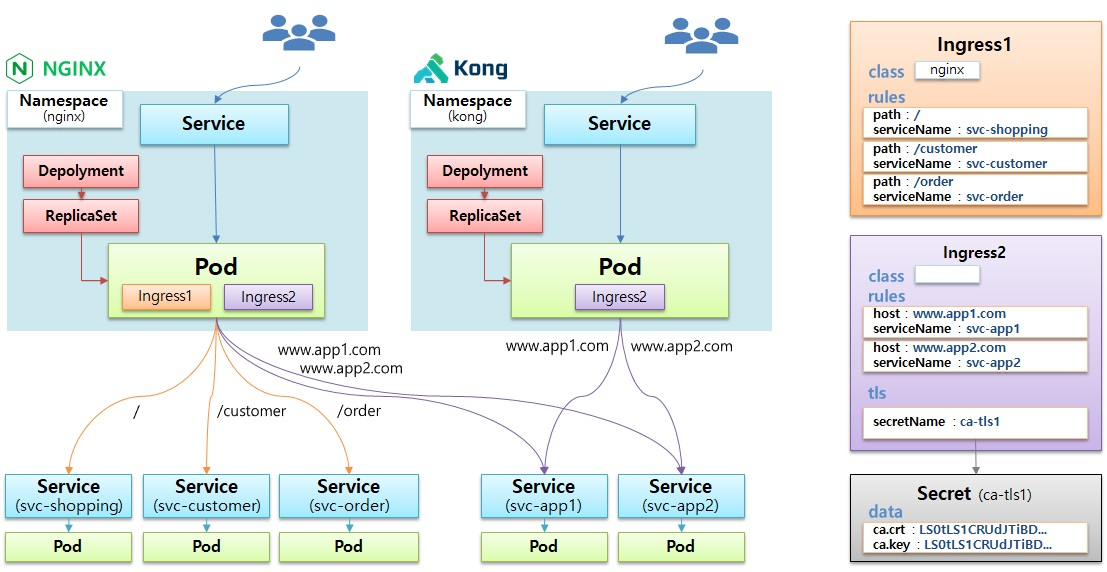
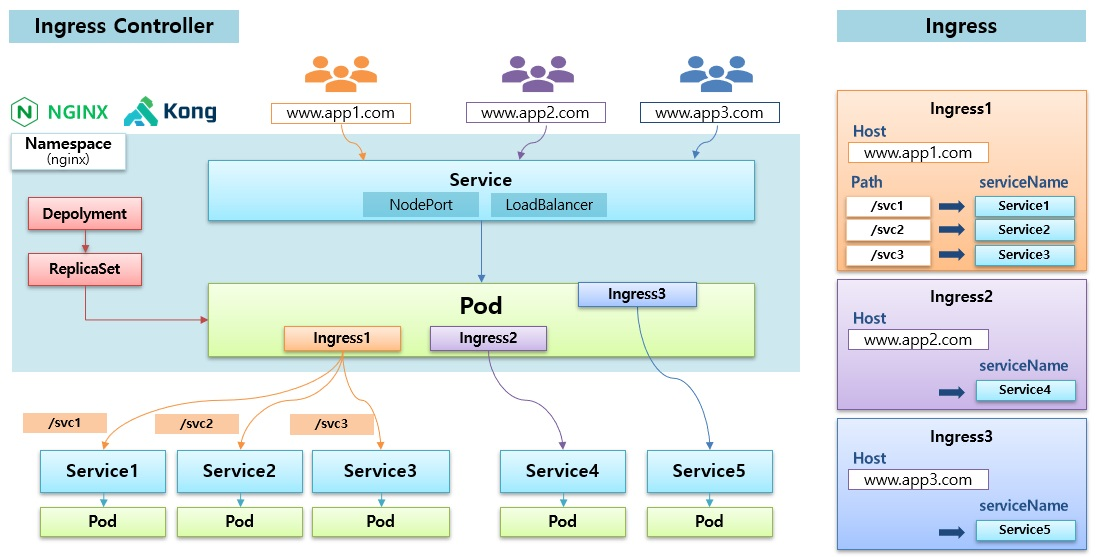
45

diff --git a/practice/intermediate/new-ingress/index.html b/practice/intermediate/new-ingress/index.html
@@ -33,7 +33,7 @@
 
 <meta itemprop="datePublished" content="2020-01-20T00:00:00&#43;00:00" />
 <meta itemprop="dateModified" content="2020-01-20T00:00:00&#43;00:00" />
-<meta itemprop="wordCount" content="520">
+<meta itemprop="wordCount" content="531">
 
 
 
@@ -278,18 +278,53 @@
 
 
 
+<p><br/>
+<br/></p>
+
 <hr />
 
-<h2 id="1-nginx-설치">1. nginx 설치</h2>
+<h2 id="1-nginx-controller">1. Nginx Controller</h2>
 
 <hr />
 
-<h3 id="1-1-install-nginx-controller">1-1) Install Nginx Controller</h3>
+
+
+
+    
+    
+        
+        
+        
+        
+        
+    
+
+    
+    
+    
+    
+    
+    
+
+        
+    
+
+    
+        <span class="image left">
+        	
+            	<img src="/img/practice/intermediate/Ingress%20with%20Install%20Nginx%20Controller%20for%20Kubernetes.jpg" alt="Ingress with Install Nginx Controller for Kubernetes" title="Ingress with Install Nginx Controller for Kubernetes" >
+           	
+        </span>
+    
+
+
+
+<h3 id="1-1-nginx-설치">1-1) Nginx 설치</h3>
 
 <pre><code class="language-sh">kubectl apply -f https://raw.githubusercontent.com/kubernetes/ingress-nginx/nginx-0.27.1/deploy/static/mandatory.yaml
 </code></pre>
 
-<h3 id="1-2-add-nodeport-service">1-2) Add NodePort Service</h3>
+<h3 id="1-2-nodeport-service-생성">1-2) NodePort Service 생성</h3>
 
 <pre><code class="language-sh">kubectl apply -f https://raw.githubusercontent.com/kubernetes/ingress-nginx/nginx-0.27.1/deploy/static/provider/baremetal/service-nodeport.yaml
 </code></pre>
@@ -298,9 +333,41 @@
 
 <hr />
 
-<h2 id="2">2.</h2>
+<h2 id="2-service-loadbalancing">2. Service Loadbalancing</h2>
 
 <hr />
+
+
+
+
+    
+    
+        
+        
+        
+        
+        
+    
+
+    
+    
+    
+    
+    
+    
+
+        
+    
+
+    
+        <span class="image left">
+        	
+            	<img src="/img/practice/intermediate/Ingress%20with%20Service%20Loadbalancing%20for%20Kubernetes.jpg" alt="Ingress with Service Loadbalancing for Kubernetes" title="Ingress with Service Loadbalancing for Kubernetes" >
+           	
+        </span>
+    
+
+
 
 <h3 id="2-1-shopping-page">2-1) Shopping Page</h3>
 
@@ -412,6 +479,38 @@ curl 192.168.0.30:30431/customer
 
 <hr />
 
+
+
+
+    
+    
+        
+        
+        
+        
+        
+    
+
+    
+    
+    
+    
+    
+    
+
+        
+    
+
+    
+        <span class="image left">
+        	
+            	<img src="/img/practice/intermediate/Ingress%20with%20Canary%20Upgrade%20for%20Kubernetes.jpg" alt="Ingress with Canary Upgrade for Kubernetes" title="Ingress with Canary Upgrade for Kubernetes" >
+           	
+        </span>
+    
+
+
+
 <h3 id="3-1-app-v1">3-1) App V1</h3>
 
 <pre><code class="language-yaml">apiVersion: v1
@@ -476,7 +575,8 @@ spec:
           servicePort: 8080
 </code></pre>
 
-<pre><code class="language-sh">cat &lt;&lt; EOF &gt;&gt; /etc/hosts
+<pre><code class="language-sh">#HostName 등록
+cat &lt;&lt; EOF &gt;&gt; /etc/hosts
 192.168.0.30 www.app.com
 EOF
 
@@ -537,6 +637,38 @@ spec:
 
 <hr />
 
+
+
+
+    
+    
+        
+        
+        
+        
+        
+    
+
+    
+    
+    
+    
+    
+    
+
+        
+    
+
+    
+        <span class="image left">
+        	
+            	<img src="/img/practice/intermediate/Ingress%20with%20SSL%20for%20Kubernetes.jpg" alt="Ingress with SSL for Kubernetes" title="Ingress with SSL for Kubernetes" >
+           	
+        </span>
+    
+
+
+
 <h3 id="4-1-app-v1">4-1) App V1</h3>
 
 <pre><code class="language-yaml">apiVersion: v1
@@ -570,10 +702,10 @@ metadata:
 spec:
   tls:
   - hosts:
-    - www.ssl.com
+    - www.https.com
     secretName: secret-ssl
   rules:
-    - host: www.ssl.com
+    - host: www.https.com
       http:
         paths:
         - backend:
@@ -581,17 +713,18 @@ spec:
             servicePort: 8080
 </code></pre>
 
-<h3 id="4-3-ingress-ssl">4-3) Ingress - ssl</h3>
+<h3 id="4-3-secret">4-3) Secret</h3>
 
-<pre><code class="language-sh">openssl req -x509 -nodes -days 365 -newkey rsa:2048 -keyout tls.key -out tls.crt -subj &quot;/CN=www.ssl.com/O=www.ssl.com&quot;
+<pre><code class="language-sh">#인증서 생성
+openssl req -x509 -nodes -days 365 -newkey rsa:2048 -keyout tls.key -out tls.crt -subj &quot;/CN=www.https.com/O=www.https.com&quot;
+
+#Secret 생성
 kubectl create secret tls secret-ssl --key tls.key --cert tls.crt
 
-
+#HostName 등록
 cat &lt;&lt; EOF &gt;&gt; /etc/hosts
-192.168.0.30 www.ssl.com
+192.168.0.30 www.https.com
 EOF
-
-
 </code></pre>
 
 <p><br/>
@@ -636,6 +769,8 @@ spec:
 
 <ul>
 <li><strong>Ingress</strong> : <a href="https://kubernetes.io/docs/concepts/services-networking/ingress/">https://kubernetes.io/docs/concepts/services-networking/ingress/</a></li>
+<li><strong>Ingress Controllers</strong> : <a href="https://kubernetes.io/docs/concepts/services-networking/ingress-controllers/">https://kubernetes.io/docs/concepts/services-networking/ingress-controllers/</a>
+<br /></li>
 </ul>
 
 <p><br/></p>

diff --git a/plan/2020_01/index.html b/plan/2020_01/index.html
@@ -33,7 +33,7 @@
 
 <meta itemprop="datePublished" content="2020-01-04T00:00:00&#43;00:00" />
 <meta itemprop="dateModified" content="2020-01-04T00:00:00&#43;00:00" />
-<meta itemprop="wordCount" content="145">
+<meta itemprop="wordCount" content="190">
 
 
 
@@ -241,11 +241,93 @@
 
 <p><br/></p>
 
-<h3 id="21일">-21일-</h3>
+<h3 id="28일">-28일-</h3>
 
 <hr />
 
 <h4 id="중급편-연재-ingress">[중급편 연재] Ingress</h4>
+
+<p><strong><code>PPT</code></strong> 100%  <strong><code>Blog</code></strong> 90%   <strong><code>Recording</code></strong> 40%</p>
+
+<ul>
+<li>이론 스크립팅 및 녹음</li>
+</ul>
+
+<p><br/></p>
+
+<h3 id="24-27일">-24 ~ 27일-</h3>
+
+<ul>
+<li>설 연휴</li>
+</ul>
+
+<p><br/></p>
+
+<h3 id="23일">-23일-</h3>
+
+<hr />
+
+<h4 id="중급편-연재-ingress-1">[중급편 연재] Ingress</h4>
+
+<p><strong><code>PPT</code></strong> 100%  <strong><code>Blog</code></strong> 90%   <strong><code>Recording</code></strong> 0%</p>
+
+<ul>
+<li>Blog 실습 소스 정리</li>
+</ul>
+
+<p><br/></p>
+
+<h3 id="22일">-22일-</h3>
+
+<hr />
+
+<h4 id="중급편-연재-ingress-2">[중급편 연재] Ingress</h4>
+
+<p><strong><code>PPT</code></strong> 100%  <strong><code>Blog</code></strong> 60%   <strong><code>Recording</code></strong> 0%</p>
+
+<ul>
+<li>PPT 업데이트</li>
+</ul>
+
+
+
+
+    
+    
+        
+        
+        
+        
+        
+    
+
+    
+    
+    
+    
+    
+    
+
+        
+    
+
+    
+        <span class="image left">
+        	
+            	<img src="/img/plan/2020_01//Inflearn%20Update%20Plan%2022%20for%20Kubernetes.jpg" alt="Inflearn Update Plan 22 for Kubernetes" title="Inflearn Update Plan 22 for Kubernetes" >
+           	
+        </span>
+    
+
+
+
+<p><br/></p>
+
+<h3 id="21일">-21일-</h3>
+
+<hr />
+
+<h4 id="중급편-연재-ingress-3">[중급편 연재] Ingress</h4>
 
 <p><strong><code>PPT</code></strong> 50%  <strong><code>Blog</code></strong> 60%   <strong><code>Recording</code></strong> 0%</p>
 
@@ -260,7 +342,7 @@
 
 <hr />
 
-<h4 id="중급편-연재-ingress-1">[중급편 연재] Ingress</h4>
+<h4 id="중급편-연재-ingress-4">[중급편 연재] Ingress</h4>
 
 <p><strong><code>PPT</code></strong> 40%  <strong><code>Blog</code></strong> 30%   <strong><code>Recording</code></strong> 0%</p>
 
@@ -274,7 +356,7 @@
 
 <hr />
 
-<h4 id="중급편-연재-ingress-2">[중급편 연재] Ingress</h4>
+<h4 id="중급편-연재-ingress-5">[중급편 연재] Ingress</h4>
 
 <p><strong><code>PPT</code></strong> 40%  <strong><code>Blog</code></strong> 0%   <strong><code>Recording</code></strong> 0%</p>
 
@@ -320,7 +402,7 @@
 
 <hr />
 
-<h4 id="중급편-연재-ingress-3">[중급편 연재] Ingress</h4>
+<h4 id="중급편-연재-ingress-6">[중급편 연재] Ingress</h4>
 
 <p><strong><code>PPT</code></strong> 20%  <strong><code>Blog</code></strong> 0%   <strong><code>Recording</code></strong> 0%</p>
 
